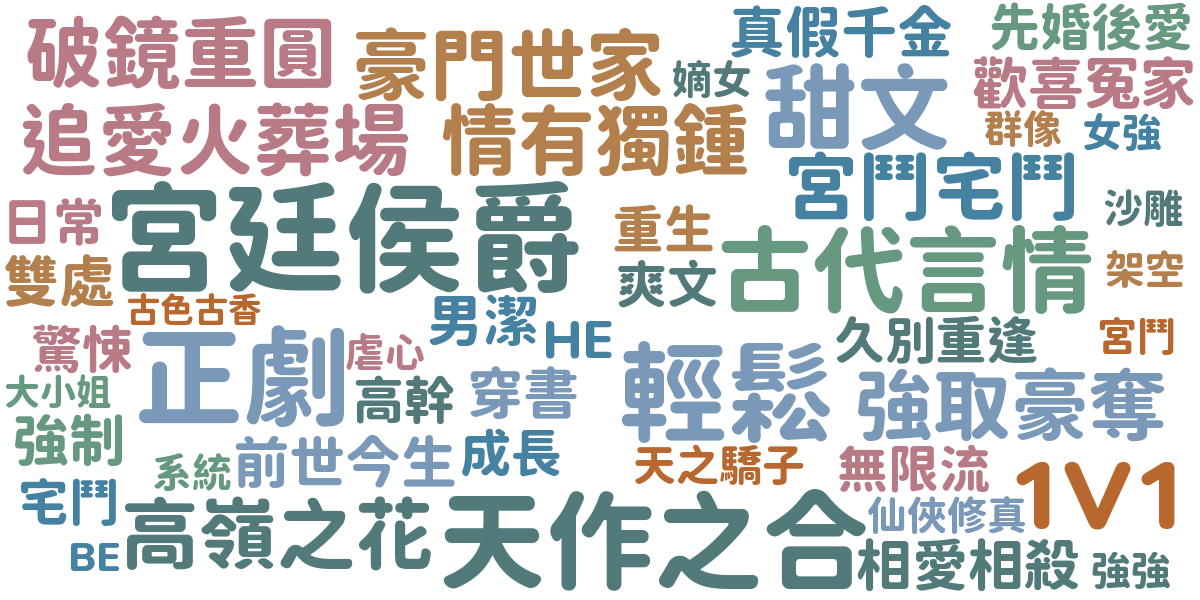
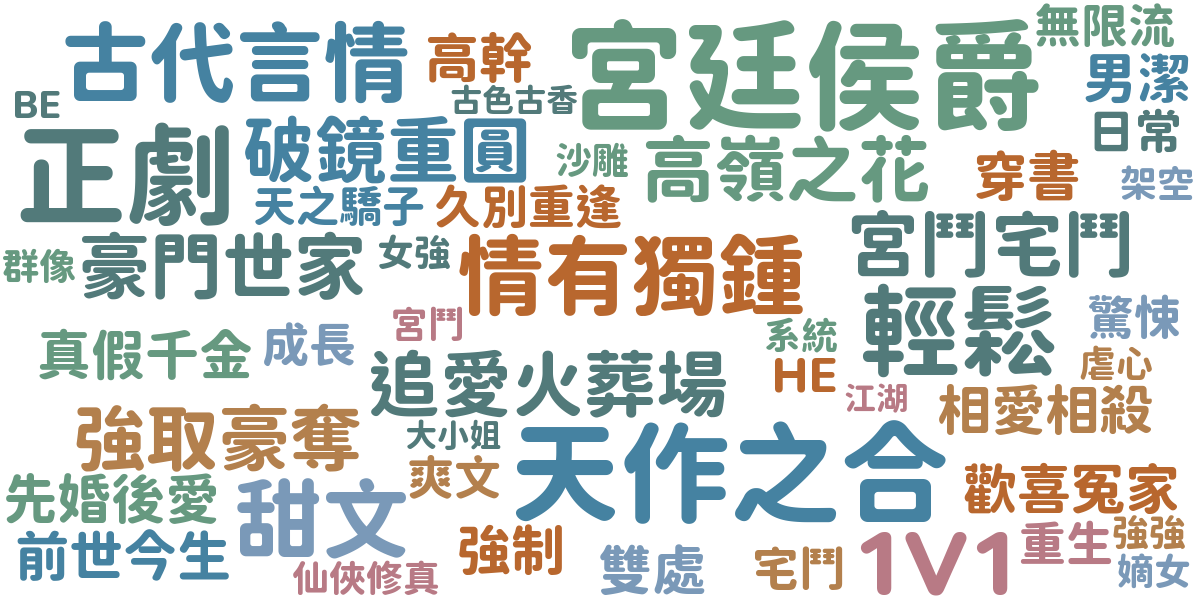
☁ Update reading word cloud via GitHub Actions

diff --git a/public/word_cloud.html b/public/word_cloud.html
@@ -23,6 +23,6 @@
     </style>
 </head>
 <body>
-    <img src="word_cloud.png?t=1770597312" alt="Word Cloud">
+    <img src="word_cloud.png?t=1770683997" alt="Word Cloud">
 </body>
 </html>
